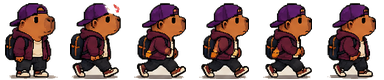
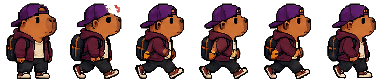
Crônicas de Capivara: Gio, sprites limpos e arte ilustrada para o laboratório

diff --git a/jogos.html b/jogos.html
@@ -4,13 +4,24 @@
 .mission-guide{display:flex;align-items:center;gap:12px;padding:11px 14px;margin-bottom:18px;background:#352638;border:1px solid #8c615e;border-radius:6px}.mission-guide svg{width:42px;height:42px;flex:none}.mission-guide strong,.mission-guide span{display:block}.mission-guide span{font-size:12px;color:#e9c798}.route-ship{position:absolute;width:30px;height:30px;left:8%;top:55%;z-index:3;transform:translate(-50%,-50%);pointer-events:none;transition:left .65s,top .65s}.route-ship svg{width:100%;height:100%}.platform-wrap{border:3px solid #a77e68;border-radius:6px;overflow:hidden;background:#7895a4}.platform-wrap canvas{display:block;width:100%;height:auto;image-rendering:pixelated;touch-action:none}.platform-controls button{touch-action:none;user-select:none}.platform-controls button[data-move=jump]{width:100px}.cover{height:180px}.cover svg{image-rendering:pixelated}.game-card:focus-visible{outline:3px solid #861b23}
 
 .campaign-intro{display:flex;gap:20px;align-items:center;padding:4px 0 22px}.campaign-intro .eyebrow{color:#f2cb94}.campaign-intro h3{font-size:clamp(27px,4vw,43px);color:#fbe2ba}.campaign-intro p{margin:0}.gabe-mini{width:64px;height:64px;flex:none;background:#4e384f;border:2px solid #98726b;display:grid;place-items:center;border-radius:6px}.gabe-mini svg{width:90%;height:90%;image-rendering:pixelated}.world-grid{display:grid;grid-template-columns:repeat(3,minmax(0,1fr));gap:16px}.world-card{background:#3d2d41;color:#fff3de;border:2px solid #9b7268;padding:0;text-align:left;border-radius:7px;overflow:hidden;box-shadow:0 4px 0 #15101c}.world-card:hover{border-color:#f0c38a;transform:translateY(-2px)}.world-card canvas,.world-banner{display:block;width:100%;height:auto;image-rendering:pixelated}.world-card div{padding:12px;display:flex;flex-direction:column;gap:4px}.world-card strong{font:400 24px Anton,Arial,sans-serif;color:#ffe2ab}.world-card small,.world-card span{font-size:12px;color:#d6bec0}.world-card span{font-weight:bold;color:#b9dcb8}.world-banner{margin:16px 0;border:3px solid #a47d6b;border-radius:6px;max-height:180px;object-fit:cover}.world-heading{margin-top:20px!important}.phase-grid{display:grid;grid-template-columns:repeat(2,minmax(0,1fr));gap:10px}.phase-card{display:flex;gap:12px;align-items:center;text-align:left;background:#3b2b40;border:1px solid #967164;color:#f7e6cd;padding:14px;border-radius:5px}.phase-card:hover{background:#52394d;border-color:#f2c598}.phase-index{font:400 24px Anton,Arial,sans-serif;color:#e6bb83}.phase-card strong,.phase-card small{display:block}.phase-card small{font-size:12px;color:#d2babb}.phase-stars{margin-left:auto;white-space:nowrap;color:#f0ca83}.campaign-top{display:flex;gap:16px;align-items:center;justify-content:space-between;flex-wrap:wrap;margin-bottom:18px}.secondary-action{background:#4e374a;border-color:#a17b74;box-shadow:none;margin:4px 6px 4px 0;font-size:14px;padding:9px 13px}.campaign-screen{max-width:min(100%,800px);margin:auto}.campaign-screen canvas{aspect-ratio:16/9;image-rendering:pixelated;max-height:56vh;object-fit:contain}.campaign-controls{margin:10px auto}.field-notes{display:flex;align-items:center;gap:14px;background:#392a3e;padding:12px;border:1px solid #8d6862;border-radius:6px}.field-notes strong{color:#f6d0a0}.field-notes p{margin:3px 0!important;font-size:14px}.field-notes small{font-size:12px;color:#cfbabe}.victory-stars{font-size:35px;color:#f1c675;margin:8px}.campaign-win .gabe-mini{margin:auto}.campaign-win .action{margin:5px}@media(max-width:650px){.world-grid{grid-template-columns:repeat(2,minmax(0,1fr))}.phase-grid{grid-template-columns:1fr}.world-card strong{font-size:19px}.campaign-intro .gabe-mini,.field-notes .gabe-mini{width:45px;height:45px}.campaign-screen canvas{max-height:none}.campaign-top{font-size:13px}}
-.hero-select{padding:clamp(18px,5vw,52px);text-align:center;color:#32202e;background:repeating-linear-gradient(0deg,#e8d7bd 0 2px,#f4e7d4 2px 5px);border:6px double #4e3748;box-shadow:inset 0 0 0 6px #d5bda1}.hero-select p{font:bold 12px monospace;letter-spacing:.2em;color:#68465a}.hero-select h3{color:#41283f;font:bold clamp(22px,4vw,38px) Georgia,serif}.hero-pair,.hero-actions{display:flex;gap:14px;justify-content:center;margin:20px auto;flex-wrap:wrap}.hero-pair button{background:#473447;color:#fff0ce;border:4px solid #81677c;padding:4px;cursor:pointer;width:min(38%,178px);box-shadow:4px 4px #ad927f}.hero-pair img{width:100%;display:block;image-rendering:pixelated}.hero-pair strong{display:block;padding:6px;font:bold 18px monospace}.hero-pair [aria-pressed=true]{border-color:#f5bc58;outline:3px solid #4b3447}.hero-pair [aria-pressed=true] strong:before{content:'▶ '}.hero-pair button:focus-visible{outline:4px dashed #205cad}.hero-actions .action{font:bold 15px monospace}</style><script src="campaign-landscape.js"></script><script>if(window.top===window.self){location.replace('./#jogos')}else{document.documentElement.classList.add('embedded-service')}</script><style>html.embedded-service body{min-height:0!important;height:auto!important;display:flow-root!important;background:transparent!important;background-image:none!important}html.embedded-service body>header,html.embedded-service body>footer{display:none!important}</style></head><body><header class="top"><a class="brand" href="./#inicio"><img src="portal-mark.svg" alt=""><span>PORTAL DA HISTÓRIA<small>PROFESSOR GABRIEL</small></span></a><a class="back" href="./#inicio">Voltar ao Portal</a></header><main class="shell"><div class="head"><div><div class="eyebrow">Acervo interativo</div><h1>Laboratório de Jogos</h1><p>Explore mundos históricos, recupere relíquias e atravesse o tempo. Escolha uma aventura para jogar.</p></div><div class="chapter">Ensino Fundamental e Médio · Aventuras históricas</div></div><div id="gallery" class="gallery" aria-label="Selecione um jogo"></div><section id="arena" class="arena" hidden><div class="gamebar"><button id="leave">Todos os jogos</button><h2 id="gameTitle"></h2><span class="status" id="gameStatus">ROMA IMPERIAL</span></div><div id="stage" class="stage"></div></section></main><footer class="footer">Portal da História · Professor Gabriel Gomes · Jogos educativos</footer><script>
+.hero-select{padding:clamp(18px,5vw,52px);text-align:center;color:#32202e;background:repeating-linear-gradient(0deg,#e8d7bd 0 2px,#f4e7d4 2px 5px);border:6px double #4e3748;box-shadow:inset 0 0 0 6px #d5bda1}.hero-select p{font:bold 12px monospace;letter-spacing:.2em;color:#68465a}.hero-select h3{color:#41283f;font:bold clamp(22px,4vw,38px) Georgia,serif}.hero-pair,.hero-actions{display:flex;gap:14px;justify-content:center;margin:20px auto;flex-wrap:wrap}.hero-pair button{background:#473447;color:#fff0ce;border:4px solid #81677c;padding:4px;cursor:pointer;width:min(38%,178px);box-shadow:4px 4px #ad927f}.hero-pair img{width:100%;display:block;image-rendering:pixelated}.hero-pair strong{display:block;padding:6px;font:bold 18px monospace}.hero-pair [aria-pressed=true]{border-color:#f5bc58;outline:3px solid #4b3447}.hero-pair [aria-pressed=true] strong:before{content:'▶ '}.hero-pair button:focus-visible{outline:4px dashed #205cad}.hero-actions .action{font:bold 15px monospace}.illustrated-cover{display:block;width:100%;height:100%;object-fit:cover}.mission-portrait,.guide-face{width:42px;height:42px;object-fit:cover;image-rendering:pixelated;border:2px solid #c9a476}.maze .guide-face{width:90%;height:90%;border:0}.mission-guide{background:linear-gradient(100deg,#382735,#624955);border:2px solid #b38d70}.memory,.room,.timeline{border:2px solid #8a6858;box-shadow:inset 0 0 0 3px #443341;background-color:#513d47}.game-card .card-copy{border-top:3px solid #ad875f}</style><script src="campaign-landscape.js"></script><script>if(window.top===window.self){location.replace('./#jogos')}else{document.documentElement.classList.add('embedded-service')}</script><style>html.embedded-service body{min-height:0!important;height:auto!important;display:flow-root!important;background:transparent!important;background-image:none!important}html.embedded-service body>header,html.embedded-service body>footer{display:none!important}</style></head><body><header class="top"><a class="brand" href="./#inicio"><img src="portal-mark.svg" alt=""><span>PORTAL DA HISTÓRIA<small>PROFESSOR GABRIEL</small></span></a><a class="back" href="./#inicio">Voltar ao Portal</a></header><main class="shell"><div class="head"><div><div class="eyebrow">Acervo interativo</div><h1>Laboratório de Jogos</h1><p>Explore mundos históricos, recupere relíquias e atravesse o tempo. Escolha uma aventura para jogar.</p></div><div class="chapter">Ensino Fundamental e Médio · Aventuras históricas</div></div><div id="gallery" class="gallery" aria-label="Selecione um jogo"></div><section id="arena" class="arena" hidden><div class="gamebar"><button id="leave">Todos os jogos</button><h2 id="gameTitle"></h2><span class="status" id="gameStatus">ROMA IMPERIAL</span></div><div id="stage" class="stage"></div></section></main><footer class="footer">Portal da História · Professor Gabriel Gomes · Jogos educativos</footer><script>
 const $=id=>document.getElementById(id),stage=$('stage');let current=null,cleanup=()=>{};const shuffle=a=>{a=[...a];for(let i=a.length-1;i>0;i--){let j=Math.floor(Math.random()*(i+1));[a[i],a[j]]=[a[j],a[i]]}return a};const icons={coin:['0011100','0111110','1101011','1101011','1101011','0111110','0011100'],scroll:['0111110','1100011','0111110','0100010','0101110','0100010','0111110'],amphora:['0011100','0111110','1110111','1101011','0111110','0011100','0001000'],helmet:['0011100','0111110','1111111','1100011','1100011','1100001','0110000'],column:['0111110','1111111','0011100','0011100','0011100','0111110','1111111'],wheat:['0001000','0101010','0011100','0101010','0011100','0001000','0001000'],ship:['0001000','0011100','0111110','0001000','1111111','0111110','0011100'],cross:['0001000','0001000','0111110','0001000','0001000','0001000','0001000'],book:['1000001','1110111','1010101','1010101','1010101','1110111','0001000'],key:['0111000','1101100','1101100','0111000','0001111','0001010','0001000'],person:['0011100','0011100','0001000','0111110','0101010','0001000','0010100'],arch:['0111110','1111111','1100011','1100011','1100011','1100011','1100011']};const colors={coin:'#e8b85b',scroll:'#e8c49b',amphora:'#cf795a',helmet:'#c5b3a4',column:'#d6c9b9',wheat:'#e6c572',ship:'#b68c6f',cross:'#e4d3b2',book:'#8bb6a0',key:'#dfb46e',person:'#be4850',arch:'#e0c09c'};
-function art(name,fill){let rows=icons[name]||icons.coin;return `<svg viewBox="0 0 7 7" aria-hidden="true" class="pixel">${rows.map((row,y)=>[...row].map((v,x)=>v==='1'?`<rect x="${x}" y="${y}" width="1" height="1" fill="${fill||colors[name]||'#dbc49e'}"/>`:'').join('')).join('')}</svg>`}
-function cover(kind){if(kind===5)return '<div style="height:100%;display:flex;background:#dfcfb9;align-items:center;justify-content:center">'+['gabi','gil'].map(n=>'<img alt="" style="width:44%;max-height:100%;object-fit:contain;image-rendering:pixelated" src="img/'+n+'-portrait.webp">').join('')+'</div>';const palettes=[['#543c49','#c57a69'],['#3b3547','#b78362'],['#3b4c4a','#b9af74'],['#503b46','#d5a66e'],['#315761','#cbb581']];const [bg,fg]=palettes[kind];let content='';if(kind===0){content=`<path d="M12 84H308" stroke="#c7a46e" stroke-width="4"/>${[40,100,160,220,280].map((x,i)=>`<rect x="${x-16}" y="${i%2?58:36}" width="32" height="32" fill="${i===3?'#b94f50':fg}"/><rect x="${x-3}" y="82" width="6" height="6" fill="#ffe3af"/>`).join('')}`;}else if(kind===1){content=`<rect x="40" y="15" width="240" height="125" fill="#836353"/><rect x="49" y="24" width="222" height="107" fill="#493749"/>${Array.from({length:15},(_,i)=>`<rect x="${58+(i%5)*41}" y="${31+Math.floor(i/5)*33}" width="33" height="25" fill="${i===7?'#e3b971':'#6d4c50'}"/>`).join('')}<path d="M192 102l25 26" stroke="#f0bc72" stroke-width="7"/><circle cx="184" cy="93" r="19" fill="none" stroke="#f0bc72" stroke-width="6"/>`;}else if(kind===2){content=Array.from({length:8},(_,i)=>`<rect x="${62+(i%4)*49}" y="${20+Math.floor(i/4)*62}" width="41" height="52" rx="3" fill="${i===1||i===6?'#e4c28c':'#90606a'}" stroke="#dab787" stroke-width="2"/><rect x="${75+(i%4)*49}" y="${35+Math.floor(i/4)*62}" width="15" height="15" fill="${i===1||i===6?'#8d3e47':'#cf9c80'}"/>`).join('');}else if(kind===3){content=`<path d="M43 112V28H117V58H78V91H156V27H230V75H194V113H277" fill="none" stroke="#a77b61" stroke-width="21"/><path d="M43 112V28H117V58H78V91H156V27H230V75H194V113H277" fill="none" stroke="#e3c69a" stroke-width="9"/><rect x="36" y="104" width="14" height="14" fill="#b7464d"/><rect x="267" y="102" width="21" height="21" fill="#f4ce76"/>`;}else{content=`<path d="M0 0H320V25L286 46 242 36 213 55 186 39 142 57 106 39 78 64 40 49 0 65ZM0 133l68-18 69 12 71-19 49 20 63-18v50H0z" fill="#c5b78b"/>${[[120,49],[169,67],[236,64],[158,121]].map(([x,y])=>`<rect x="${x-5}" y="${y-5}" width="10" height="10" fill="#aa4a4d" stroke="#ffe3aa" stroke-width="2"/>`).join('')}`;}return `<svg viewBox="0 0 320 155" aria-hidden="true"><rect width="320" height="155" fill="${bg}"/><path d="M0 145H320" stroke="${fg}" stroke-width="5"/>${content}</svg>`}
-const games=[['Corrida pelo Tempo','Ordene as relíquias na linha do tempo.','CRONOLOGIA',timelineGame],['Detetive da História','Procure objetos históricos escondidos no arquivo.','OBJETOS OCULTOS',detectiveGame],['Conexões Históricas','Vire cartas e encontre pares de conceitos.','MEMÓRIA',memoryGame],['Expedição Romana','Atravesse o labirinto e recolha os artefatos.','AVENTURA',mazeGame],['Geografia Histórica','Trace rotas pelo Mediterrâneo e descubra cidades.','MAPA',mapGame],['Gabi e Gil no Mapa do Tempo','36 fases em seis mundos históricos: Egito, Mesopotâmia, Grécia, Roma, França e Inglaterra.','CAMPANHA 16-BIT',platformGame]];
+function art(name,fill){
+  if(name==='person')return '<img class="pixel guide-face" alt="" src="img/gabi-portrait.webp">';
+  const rows=icons[name]||icons.coin,base=fill||colors[name]||'#d1a56d';
+  let pixels='';
+  rows.forEach((row,y)=>[...row].forEach((on,x)=>{
+    if(on!=='1')return;
+    pixels+='<rect x="'+(x*2+1)+'" y="'+(y*2+1)+'" width="2" height="2" fill="'+base+'"/>';
+    if(rows[y-1]?.[x]!=='1')pixels+='<rect x="'+(x*2+1)+'" y="'+(y*2+1)+'" width="2" height="1" fill="#fff0c9"/>';
+    if(row[x+1]!=='1')pixels+='<rect x="'+(x*2+2)+'" y="'+(y*2+2)+'" width="1" height="1" fill="#533b47"/>';
+  }));
+  return '<svg viewBox="0 0 16 16" aria-hidden="true" class="pixel">'+pixels+'</svg>';
+}
+function cover(kind){if(kind===5)return '<div style="height:100%;display:flex;background:#dfcfb9;align-items:center;justify-content:center">'+['gabi','gio'].map(n=>'<img alt="" style="width:44%;max-height:100%;object-fit:contain;image-rendering:pixelated" src="img/'+n+'-portrait.webp">').join('')+'</div>';return '<img class="illustrated-cover" src="img/chronicle-game-'+kind+'.webp" alt="">'}
+const games=[['Corrida pelo Tempo','Ordene as relíquias na linha do tempo.','CRONOLOGIA',timelineGame],['Detetive da História','Procure objetos históricos escondidos no arquivo.','OBJETOS OCULTOS',detectiveGame],['Conexões Históricas','Vire cartas e encontre pares de conceitos.','MEMÓRIA',memoryGame],['Expedição Romana','Atravesse o labirinto e recolha os artefatos.','AVENTURA',mazeGame],['Geografia Histórica','Trace rotas pelo Mediterrâneo e descubra cidades.','MAPA',mapGame],['Crônicas de Capivara','36 fases em seis mundos históricos: Egito, Mesopotâmia, Grécia, Roma, França e Inglaterra.','CAMPANHA 16-BIT',platformGame]];
 games.forEach(([name,desc,type],i)=>{const b=document.createElement('button');b.className='game-card';b.innerHTML=`<div class="cover">${cover(i)}<span class="tag">${type}</span></div><div class="card-copy"><h2>${name}</h2><p>${desc}</p><strong>Jogar</strong></div>`;b.onclick=()=>launch(i);$('gallery').append(b)});
-let roundNo=0;const missions=['Arquivo do tempo','Câmara de artefatos','Biblioteca imperial','Via Ápia','Rotas mediterrâneas','Aventura de plataforma'];function launch(i,keep=false){if(!keep)roundNo=0;cleanup();cleanup=()=>{};current=i;$('gallery').hidden=true;$('arena').hidden=false;$('gameTitle').textContent=games[i][0];$('gameStatus').textContent=(i===5?'CAMPANHA HISTÓRICA':'ROMA IMPERIAL')+' · '+missions[i];stage.innerHTML='';games[i][3]();if(i!==5){const banner=document.createElement('div');banner.className='mission-guide';banner.innerHTML=art('person','#f3be8b')+'<div><strong>Gabi, seu guia</strong><span>Missão '+(roundNo+1)+' de 2 · '+missions[i]+'</span></div>';stage.prepend(banner)}$('arena').scrollIntoView({block:'start',behavior:'smooth'})}$('leave').onclick=()=>{cleanup();cleanup=()=>{};current=null;$('arena').hidden=true;$('gallery').hidden=false;stage.innerHTML='';$('gallery').scrollIntoView({block:'start',behavior:'smooth'})};function win(title,desc){cleanup();cleanup=()=>{};if(current!==5&&roundNo===0){stage.innerHTML=`<div class="complete"><h3>${title}</h3><p>${desc}</p><p>Uma nova missão está disponível.</p><button class="action" id="again">Avançar para missão 2</button></div>`;$('again').onclick=()=>{roundNo=1;launch(current,true)}}else{stage.innerHTML=`<div class="complete"><h3>${title}</h3><p>${desc}</p><p>Expedição concluída!</p><button class="action" id="again">Jogar novamente</button></div>`;$('again').onclick=()=>launch(current)}}
+let roundNo=0;const missions=['Arquivo do tempo','Câmara de artefatos','Biblioteca imperial','Via Ápia','Rotas mediterrâneas','Aventura de plataforma'];function launch(i,keep=false){if(!keep)roundNo=0;cleanup();cleanup=()=>{};current=i;$('gallery').hidden=true;$('arena').hidden=false;$('gameTitle').textContent=games[i][0];$('gameStatus').textContent=(i===5?'CAMPANHA HISTÓRICA':'ROMA IMPERIAL')+' · '+missions[i];stage.innerHTML='';games[i][3]();if(i!==5){const banner=document.createElement('div');banner.className='mission-guide';banner.innerHTML='<img class="mission-portrait" alt="" src="img/'+(i%2?'gio':'gabi')+'-portrait.webp">'+'<div><strong>'+(i%2?'Gio, sua guia':'Gabi, seu guia')+'</strong><span>Missão '+(roundNo+1)+' de 2 · '+missions[i]+'</span></div>';stage.prepend(banner)}$('arena').scrollIntoView({block:'start',behavior:'smooth'})}$('leave').onclick=()=>{cleanup();cleanup=()=>{};current=null;$('arena').hidden=true;$('gallery').hidden=false;stage.innerHTML='';$('gallery').scrollIntoView({block:'start',behavior:'smooth'})};function win(title,desc){cleanup();cleanup=()=>{};if(current!==5&&roundNo===0){stage.innerHTML=`<div class="complete"><h3>${title}</h3><p>${desc}</p><p>Uma nova missão está disponível.</p><button class="action" id="again">Avançar para missão 2</button></div>`;$('again').onclick=()=>{roundNo=1;launch(current,true)}}else{stage.innerHTML=`<div class="complete"><h3>${title}</h3><p>${desc}</p><p>Expedição concluída!</p><button class="action" id="again">Jogar novamente</button></div>`;$('again').onclick=()=>launch(current)}}
 function timelineGame(){const events=roundNo?[['64 d.C.','Grande incêndio de Roma'],['80 d.C.','Inauguração do Coliseu'],['212 d.C.','Constituição Antoniniana'],['284 d.C.','Diocleciano assume o poder'],['330 d.C.','Inauguração de Constantinopla'],['410 d.C.','Saque de Roma pelos visigodos']]:[['27 a.C.','Início do Império com Augusto'],['79 d.C.','Erupção do Vesúvio'],['117 d.C.','Extensão máxima sob Trajano'],['313 d.C.','Édito de Milão'],['395 d.C.','Divisão definitiva do Império'],['476 d.C.','Fim do Império do Ocidente']];let placed=0,tries=0,picked=null;stage.innerHTML=`<h3>Reconstrua o tempo</h3><p>Escolha uma relíquia e encaixe-a na próxima posição da linha do tempo, do acontecimento mais antigo ao mais recente. Também é possível arrastar.</p><div class="hud"><span id="tl-progress">0 / 6 acontecimentos</span><span id="tl-tries">0 encaixes errados</span></div><div class="timeline" id="slots"></div><div class="deck" id="deck"></div><p class="notice" id="msg" role="status">Selecione a primeira relíquia.</p>`;events.forEach((_,i)=>{let s=document.createElement('button');s.className='slot';s.innerHTML=`<strong>${i+1}</strong><span>${i===0?'Mais antigo':'Posição '+(i+1)}</span>`;s.setAttribute('aria-label','Posição '+(i+1));s.onclick=()=>put(i);s.ondragover=e=>e.preventDefault();s.ondrop=e=>{e.preventDefault();picked=Number(e.dataTransfer.getData('text/plain'));put(i)};$('slots').append(s)});shuffle(events.map((e,i)=>({e,i}))).forEach(({e,i})=>{let b=document.createElement('button');b.className='timecard';b.dataset.i=i;b.draggable=true;b.innerHTML=`${e[0]}<small>${e[1]}</small>`;b.onclick=()=>select(i);b.ondragstart=e=>{select(i);e.dataTransfer.setData('text/plain',i)};$('deck').append(b)});function select(i){if(i<placed)return;picked=i;document.querySelectorAll('.timecard').forEach(b=>b.classList.toggle('chosen',+b.dataset.i===i));$('msg').textContent='Agora encaixe a relíquia na posição '+(placed+1)+'.'}function put(slot){if(picked===null)return;if(slot!==placed||picked!==placed){tries++;$('tl-tries').textContent=tries+' encaixes errados';$('msg').textContent='Essa relíquia não é a próxima. Compare as datas.';return}let s=$('slots').children[placed];s.classList.add('filled');s.innerHTML=`<strong>${events[placed][0]}</strong><span>${events[placed][1]}</span>`;let b=document.querySelector(`.timecard[data-i="${picked}"]`);b.disabled=true;b.classList.remove('chosen');b.draggable=false;placed++;picked=null;$('tl-progress').textContent=placed+' / 6 acontecimentos';$('msg').textContent=placed===6?'Linha do tempo restaurada!':'Encaixe certo! Selecione a próxima relíquia.';if(placed===6)win('Linha do tempo restaurada!',`Você organizou seis acontecimentos da história romana com ${tries} encaixes errados.`)}}
 function detectiveGame(){const targets=roundNo?[['column','Coluna','A arquitetura monumental expressava o poder romano.'],['ship','Navio','O Mediterrâneo conectava portos e mercados.'],['cross','Cruz','O cristianismo difundiu-se pelo Império.'],['book','Livro','A escrita preservava leis e conhecimento.'],['arch','Arco','Arcos e aquedutos ilustram a engenharia romana.']]:[['coin','Moeda imperial','As moedas facilitavam trocas e divulgavam o poder imperial.'],['scroll','Pergaminho','Os registros escritos ajudavam a administrar o Império.'],['amphora','Ânfora','Ânforas transportavam produtos como vinho e azeite.'],['wheat','Trigo','O trigo era distribuído à plebe na política do pão e circo.'],['helmet','Elmo','O equipamento militar lembra a atuação do exército romano.']];let found=new Set(),mistakes=0;const all=shuffle([...targets.map((t,i)=>({icon:t[0],target:i})),...Array.from({length:19},(_,i)=>({icon:(roundNo?['coin','scroll','amphora','wheat','helmet','key']:['column','ship','cross','book','key','arch'])[i%6],target:-1}))]);stage.innerHTML=`<h3>Arquivo de artefatos</h3><p>Há cinco artefatos desaparecidos entre os objetos do arquivo. Encontre os que aparecem na lista, sem recolher os outros.</p><div class="hud"><span id="det-count">0 / 5 relíquias</span><span id="det-misses">0 enganos</span></div><div class="object-list" id="wanted"></div><div id="room" class="board room" aria-label="Arquivo com objetos escondidos"></div><p class="notice" id="msg" role="status">Observe os símbolos da lista e explore o arquivo.</p>`;targets.forEach((t,i)=>{let s=document.createElement('span');s.id='wanted-'+i;s.innerHTML=art(t[0])+t[1];$('wanted').append(s)});all.forEach(o=>{let b=document.createElement('button');b.className='tile';b.innerHTML=art(o.icon);b.setAttribute('aria-label','Objeto: '+({coin:'moeda',scroll:'pergaminho',amphora:'ânfora',wheat:'trigo',helmet:'elmo',column:'coluna',ship:'navio',cross:'cruz',book:'livro',key:'chave',arch:'arco'}[o.icon]||o.icon));b.onclick=()=>{if(b.disabled)return;if(o.target<0){mistakes++;b.classList.add('miss');b.disabled=true;$('det-misses').textContent=mistakes+' enganos';$('msg').textContent='Este objeto não está na lista da missão.';return}found.add(o.target);b.disabled=true;b.classList.add('found');$('wanted-'+o.target).classList.add('done');$('det-count').textContent=found.size+' / 5 relíquias';$('msg').textContent=targets[o.target][2];if(found.size===5){$('msg').textContent=targets[o.target][2];let done=document.createElement('button');done.className='action';done.textContent='Concluir investigação';done.onclick=()=>win('Arquivo recuperado!',`Você encontrou os cinco artefatos, com ${mistakes} enganos.`);stage.append(done)}};$('room').append(b)})}
 function memoryGame(){const pairs=roundNo?[['Trajano','Expansão territorial máxima'],['Colonato','Trabalho em propriedades rurais'],['Tetrarquia','Governo de quatro'],['Romanização','Difusão de costumes romanos'],['Odoacro','Deposição de Rômulo Augusto'],['Justiniano','Imperador bizantino']]:[['Pax Romana','Estabilidade imperial'],['Pão e circo','Trigo e espetáculos'],['Ruralização','Deslocamento para o campo'],['Édito de Milão','Tolerância religiosa'],['Augusto','Primeiro imperador'],['Constantinopla','Capital do Oriente']];const cards=shuffle(pairs.flatMap((p,i)=>p.map(t=>({t,i}))));let first=null,locked=false,matches=0,turns=0,timer;cleanup=()=>clearTimeout(timer);stage.innerHTML=`<h3>Memória do Império</h3><p>Vire duas cartas por vez. Encontre o conceito que corresponde à sua descrição histórica.</p><div class="hud"><span id="pairs">0 / 6 pares</span><span id="turns">0 jogadas</span></div><div class="board memory" id="memory"></div><p class="notice" id="msg" role="status">Escolha duas cartas.</p>`;cards.forEach((c,i)=>{let b=document.createElement('button');b.innerHTML='<span class="symbol">◆</span>';b.setAttribute('aria-label','Carta '+(i+1)+' fechada');b.onclick=()=>flip(b,c);$('memory').append(b)});function flip(b,c){if(locked||b.classList.contains('matched')||b.classList.contains('flipped'))return;b.classList.add('flipped');b.textContent=c.t;b.setAttribute('aria-label',c.t);if(!first){first={b,c};return}turns++;$('turns').textContent=turns+' jogadas';if(first.c.i===c.i){for(const el of [first.b,b]){el.classList.remove('flipped');el.classList.add('matched');el.disabled=true}matches++;$('pairs').textContent=matches+' / 6 pares';$('msg').textContent='Conexão histórica encontrada!';first=null;if(matches===6)win('Todas as conexões!',`Você completou os seis pares em ${turns} jogadas.`)}else{locked=true;$('msg').textContent='Essas cartas não formam um par.';const a=first.b;timer=setTimeout(()=>{for(const el of [a,b]){el.classList.remove('flipped');el.innerHTML='<span class="symbol">◆</span>';el.setAttribute('aria-label','Carta fechada')}first=null;locked=false},850)}}}
@@ -19,18 +30,20 @@ function mapGame(){const cities=[{name:'Roma',x:45,y:43,hint:'Na Península Itá
 
 
 const GABE_WORLDS=[{"title":"Egito Antigo","era":"c. 3000–30 a.C.","colors":["#efb77b","#bf815a","#74565c","#e0b179"],"icon":"pyramid","stages":[["Margens do Nilo","Nilo","Cestos de grãos","O ciclo das cheias do Nilo favorecia a agricultura."],["A oficina dos escribas","Escribas","Papiros","A escrita hieroglífica registrava informações religiosas e administrativas."],["As pirâmides de Gizé","Gizé","Papiros de arquitetura","As pirâmides eram monumentos funerários reais, construídos por trabalhadores organizados."],["O templo de Karnak","Karnak","Amuletos","Templos eram centros religiosos, econômicos e políticos."],["Vale dos Reis","Necrópole","Fragmentos de pinturas","As tumbas revelam crenças egípcias sobre a vida após a morte."],["Alexandria","Alexandria","Rolos de papiro","Alexandria tornou-se um centro de intercâmbio cultural no período helenístico."]]},{"title":"Mesopotâmia","era":"c. 3500–539 a.C.","colors":["#cfa07c","#8b6d61","#695365","#bc8260"],"icon":"ziggurat","stages":[["Os rios Tigre e Eufrates","Rios","Cestos de sementes","A irrigação permitiu o desenvolvimento agrícola entre os rios Tigre e Eufrates."],["Uruk e a escrita","Uruk","Tabuletas","A escrita cuneiforme foi desenvolvida na Mesopotâmia."],["O zigurate de Ur","Ur","Tabuletas de templo","Zigurates eram construções monumentais ligadas à religião."],["Babilônia de Hamurábi","Babilônia","Tabuletas de leis","O Código de Hamurábi reúne leis que expressavam hierarquias e relações sociais."],["Nínive","Nínive","Registros da biblioteca","A biblioteca de Assurbanípal preservou textos em tabuletas de argila."],["Porta de Ishtar","Babilônia","Fragmentos de cerâmica","A Porta de Ishtar ilustra a monumentalidade da Babilônia neobabilônica."]]},{"title":"Grécia Antiga","era":"c. 800–146 a.C.","colors":["#86b4c7","#82929a","#596e87","#e0c9ad"],"icon":"temple","stages":[["A ágora de Atenas","Atenas","Óstracos","A ágora era espaço de comércio e convivência cívica."],["A Acrópole","Atenas","Fragmentos de mármore","A Acrópole abriga monumentos como o Partenon."],["Esparta","Esparta","Peças de cerâmica","Esparta possuía uma organização social e política própria."],["Olímpia","Olímpia","Coroas de oliveira","Os jogos de Olímpia estavam ligados a celebrações religiosas."],["O porto do Pireu","Pireu","Ânforas","O comércio marítimo conectava comunidades do mundo grego."],["A era helenística","Mundo helenístico","Moedas","A expansão macedônica ampliou os intercâmbios culturais."]]},{"title":"Roma Imperial","era":"27 a.C.–476 d.C. (Ocidente)","colors":["#92a1bd","#a17c77","#65556d","#ceb090"],"icon":"arch","stages":[["Fórum Romano","Roma","Moedas imperiais","O Fórum era um centro político, religioso e comercial."],["Coliseu","Roma","Bilhetes simbólicos","Espetáculos públicos integravam a vida urbana e a política imperial."],["Via Ápia","Via Ápia","Marcos miliários","As estradas facilitavam deslocamentos e a administração das províncias."],["Pompeia","Pompeia","Fragmentos de mosaico","A erupção do Vesúvio em 79 d.C. preservou vestígios da vida romana."],["Porto de Óstia","Óstia","Ânforas","Óstia abastecia Roma por meio do comércio marítimo e fluvial."],["Constantinopla","Constantinopla","Pergaminhos","Constantinopla tornou-se capital imperial em 330 d.C."]]},{"title":"Revolução Francesa","era":"1789–1799","colors":["#9baaba","#8c7c87","#525d77","#c3b6ab"],"icon":"city","stages":[["Paris antes de 1789","Paris","Cadernos de reivindicações","O Antigo Regime era marcado por privilégios de nascimento e desigualdades."],["Versalhes","Versalhes","Documentos dos Estados Gerais","Os Estados Gerais foram convocados em 1789."],["A praça da Bastilha","Paris","Panfletos","A tomada da Bastilha em 14 de julho de 1789 tornou-se símbolo da Revolução."],["Assembleia Nacional","Paris","Páginas da declaração","A Declaração dos Direitos do Homem e do Cidadão proclamou direitos em 1789."],["A Convenção","Paris","Jornais","A República foi proclamada em 1792, em meio a conflitos políticos."],["O Diretório","Paris","Documentos políticos","O Diretório governou de 1795 a 1799, antes do golpe de 18 de Brumário."]]},{"title":"Revolução Industrial","era":"c. 1760–1850","colors":["#879ba7","#6e727a","#3f495d","#a17d70"],"icon":"factory","stages":[["As oficinas têxteis","Inglaterra","Amostras de tecido","A mecanização transformou a produção têxtil britânica."],["Manchester","Manchester","Registros de trabalho","A industrialização acelerou o crescimento urbano e transformou o trabalho."],["Máquinas a vapor","Inglaterra","Peças de máquinas","A energia a vapor impulsionou fábricas e transportes."],["O canal comercial","Inglaterra","Caixas de mercadorias","Canais permitiam transportar matérias-primas e produtos."],["A ferrovia","Liverpool–Manchester","Bilhetes de viagem","A ferrovia Liverpool–Manchester foi inaugurada em 1830."],["Cidade industrial","Inglaterra","Documentos de trabalhadores","Mudanças nas condições de trabalho estimularam formas de organização coletiva."]]}];
+const chronicleScenes=Array.from({length:6},(_,i)=>{const img=new Image();img.src='img/chronicle-world-'+i+'.webp';return img});
+const critters=new Image();critters.src='img/chronicle-fauna.webp';
 function platformGame(){
   let worldIndex=0,phase=0,stopScene=()=>{},progress={};try{progress=JSON.parse(localStorage.getItem('gabe-campaign-v1')||'{}')||{}}catch{}
   let disposed=false;cleanup=()=>{disposed=true;stopScene()};const save=(w,p,record)=>{try{const key=w+'-'+p;progress[key]=Math.max(progress[key]||0,record);localStorage.setItem('gabe-campaign-v1',JSON.stringify(progress))}catch{}};
   let hero='Gabi';
-  try{if(localStorage.getItem('capivara-personagem')==='Gil')hero='Gil'}catch{}
+  try{if(['Gio','Gil'].includes(localStorage.getItem('capivara-personagem')))hero='Gio'}catch{}
   const atlas={};
-  for(const name of ['Gabi','Gil']){atlas[name]=new Image();atlas[name].src='img/'+name.toLowerCase()+'-walk.webp'}
+  for(const name of ['Gabi','Gio']){atlas[name]=new Image();atlas[name].src='img/'+name.toLowerCase()+'-walk.webp'}
   function startMenu(){
     stopScene();stopScene=()=>{};
     stage.innerHTML='<section class="hero-select"><p>CRÔNICAS DE CAPIVARA</p><h3>Escolha seu personagem</h3><div class="hero-pair"></div><div class="hero-actions"><button class="action" id="hero-start">▶ START</button><button class="action secondary-action" id="hero-map">Seleção de fase</button></div></section>';
     const buttons=[];
-    for(const name of ['Gabi','Gil']){
+    for(const name of ['Gabi','Gio']){
       const b=document.createElement('button');buttons.push(b);b.dataset.name=name;
       b.innerHTML='<img src="img/'+name.toLowerCase()+'-portrait.webp" alt=""><strong>'+name+'</strong>';
       b.setAttribute('aria-pressed',String(name===hero));
@@ -40,7 +53,7 @@ function platformGame(){
     $('hero-start').onclick=()=>{worldIndex=0;phase=0;runPhase()};
     $('hero-map').onclick=worldMap;
   }
-  function worldMap(){stopScene();stopScene=()=>{};if(disposed)return;const total=Object.values(progress).filter(n=>n>0).length;stage.innerHTML='<div class="campaign-intro"><div class="gabe-mini">'+gabeIcon()+'</div><div><span class="eyebrow">CRÔNICAS DE CAPIVARA</span><h3>Gabi e Gil no Mapa do Tempo</h3><p>Viaje por seis mundos históricos. Cada mundo tem seis fases, relíquias e cenários próprios.</p></div></div><div class="hud"><span>36 FASES • 6 MUNDOS</span><span>'+total+' / 36 concluídas</span></div><div class="world-grid" id="world-grid"></div><p class="notice">Escolha qualquer mundo para começar. Seu progresso fica salvo neste dispositivo.</p><button class="action secondary-action" id="hero-change">Trocar personagem</button>';$('hero-change').onclick=startMenu;GABE_WORLDS.forEach((w,i)=>{const n=w.stages.filter((_,j)=>progress[i+'-'+j]).length,b=document.createElement('button');b.className='world-card';b.innerHTML='<canvas width="192" height="96" aria-hidden="true"></canvas><div><strong>'+w.title+'</strong><small>'+w.era+'</small><span>'+n+' / 6 fases concluídas</span></div>';b.onclick=()=>{worldIndex=i;phaseMap()};$('world-grid').append(b);const c=b.querySelector('canvas');drawBackdrop(c.getContext('2d'),192,96,i,0,0,0)});}
+  function worldMap(){stopScene();stopScene=()=>{};if(disposed)return;const total=Object.values(progress).filter(n=>n>0).length;stage.innerHTML='<div class="campaign-intro"><div class="gabe-mini">'+gabeIcon()+'</div><div><span class="eyebrow">CRÔNICAS DE CAPIVARA</span><h3>Crônicas de Capivara</h3><p>Viaje por seis mundos históricos. Cada mundo tem seis fases, relíquias e cenários próprios.</p></div></div><div class="hud"><span>36 FASES • 6 MUNDOS</span><span>'+total+' / 36 concluídas</span></div><div class="world-grid" id="world-grid"></div><p class="notice">Escolha qualquer mundo para começar. Seu progresso fica salvo neste dispositivo.</p><button class="action secondary-action" id="hero-change">Trocar personagem</button>';$('hero-change').onclick=startMenu;GABE_WORLDS.forEach((w,i)=>{const n=w.stages.filter((_,j)=>progress[i+'-'+j]).length,b=document.createElement('button');b.className='world-card';b.innerHTML='<canvas width="192" height="96" aria-hidden="true"></canvas><div><strong>'+w.title+'</strong><small>'+w.era+'</small><span>'+n+' / 6 fases concluídas</span></div>';b.onclick=()=>{worldIndex=i;phaseMap()};$('world-grid').append(b);const c=b.querySelector('canvas');drawBackdrop(c.getContext('2d'),192,96,i,0,0,0)});}
   function phaseMap(){stopScene();stopScene=()=>{};if(disposed)return;const w=GABE_WORLDS[worldIndex];stage.innerHTML='<button class="action secondary-action" id="world-back">Todos os mundos</button><h3 class="world-heading">'+w.title+'</h3><p>'+w.era+' · Selecione um local no mapa da campanha.</p><canvas width="640" height="180" class="world-banner" id="world-banner" aria-hidden="true"></canvas><div class="phase-grid" id="phase-grid"></div>';$('world-back').onclick=worldMap;drawBackdrop($('world-banner').getContext('2d'),640,180,worldIndex,0,0,0);w.stages.forEach((s,j)=>{const b=document.createElement('button');b.className='phase-card';b.innerHTML='<span class="phase-index">'+String(j+1).padStart(2,'0')+'</span><div><strong>'+s[0]+'</strong><small>'+s[1]+'</small></div><span class="phase-stars">'+(progress[worldIndex+'-'+j]?'★'.repeat(progress[worldIndex+'-'+j]):'☆☆☆')+'</span>';b.onclick=()=>{phase=j;runPhase()};$('phase-grid').append(b)})}
   function gabeIcon(){return '<img width="100%" height="100%" alt="'+hero+'" src="img/'+hero.toLowerCase()+'-portrait.webp">'}
   function runPhase(){
@@ -143,8 +156,22 @@ function platformGame(){
           for(let j=0;j<b.w;j+=10){const dy=b.wear>20?(time+j)%3:0;box(b.x+j,b.y+dy,9,9,'#845344');box(b.x+j,b.y+dy,9,3,'#edbb76');box(b.x+j+3,b.y+dy+4,4,1,'#bd8054')}
           box(b.x,b.y+9,b.w,2,'#513c45');continue;
         }
-        box(b.x,b.y,b.w,b.h,w.colors[3]);box(b.x,b.y,b.w,4,'#f1d1a6');for(let x=b.x+7;x<b.x+b.w;x+=18){box(x,b.y+8,2,3,'#947369');if(b.h>18)box(x+6,b.y+20,8,2,'#947369')}}for(const o of obstacles){
+        box(b.x,b.y,b.w,b.h,'#5e4143');box(b.x+1,b.y+1,b.w-2,4,'#e4bd87');
+        const brick=['#ad805e','#ad7864','#a3947d','#ac806d','#9d8082','#976e64'][worldIndex];
+        for(let row=0;row<Math.ceil((b.h-5)/9);row++){
+          const left=b.x-(row%2)*12;
+          for(let x=Math.max(left,left+Math.floor((cam-left)/24)*24);x<Math.min(b.x+b.w,cam+W);x+=24){
+            const start=Math.max(b.x,x+1),width=Math.min(b.x+b.w,x+24)-start,y=b.y+5+row*9;
+            if(width>0){box(start,y,width,Math.min(8,b.y+b.h-y),brick);box(start,y,Math.min(7,width),1,'#d4a987')}
+          }
+        }}for(const o of obstacles){
         if(o.warning){box(o.x+8,o.y-12,3,6,'#ffde79');box(o.x+8,o.y-4,3,2,'#fff1ae')}
+        if(critters.naturalWidth){
+          const direction=Math.cos(time/(46-phase*2)+o.origin)>=0?1:-1;
+          const bounce=Math.round(Math.abs(Math.sin(time/6))*2);
+          ctx.save();ctx.translate(Math.round(o.x+o.w/2),o.y+o.h);ctx.scale(direction,1);
+          ctx.drawImage(critters,worldIndex*80,0,80,64,-15,-24-bounce,30,24);ctx.restore();continue;
+        }
         const step=Math.floor(time/7)%2;
         box(o.x,o.y+3,20,10,'#523356');box(o.x+2,o.y,15,10,'#bb5162');box(o.x+4,o.y+2,10,3,'#ef9679');
         box(o.x+13,o.y+4,4,4,'#fff3bc');box(o.x+15,o.y+5,2,2,'#362848');
@@ -166,7 +193,21 @@ function platformGame(){
     function loop(t){if(stopped||disposed)return;if(!last)last=t;acc+=Math.min(50,t-last);last=t;while(acc>=16.67&&!stopped){tick();acc-=16.67}if(stopped)return;frame();raf=requestAnimationFrame(loop)}
     const km={ArrowLeft:'left',a:'left',A:'left',ArrowRight:'right',d:'right',D:'right',ArrowUp:'jump',w:'jump',W:'jump',' ':'jump'};const down=e=>{if(km[e.key]){e.preventDefault();keys[km[e.key]]=true}},up=e=>{if(km[e.key])keys[km[e.key]]=false},blur=()=>{keys={}};document.addEventListener('keydown',down);document.addEventListener('keyup',up);window.addEventListener('blur',blur);stage.querySelectorAll('[data-move]').forEach(b=>{const k=b.dataset.move;b.onpointerdown=e=>{e.preventDefault();b.setPointerCapture(e.pointerId);keys[k]=true};b.onpointerup=b.onpointercancel=b.onlostpointercapture=()=>keys[k]=false});stopScene=()=>{stopped=true;cancelAnimationFrame(raf);document.removeEventListener('keydown',down);document.removeEventListener('keyup',up);window.removeEventListener('blur',blur)};$('phase-back').onclick=phaseMap;$('gabe-restart').onclick=runPhase;hud();frame();canvas.focus({preventScroll:true});raf=requestAnimationFrame(loop)
   }
-  function drawBackdrop(c,W,H,wi,pi,cam,t){const w=GABE_WORLDS[wi],unit=H/270;const xscale=unit;const rect=(x,y,a,b,col)=>{c.fillStyle=col;c.fillRect(Math.floor(x),Math.floor(y),Math.ceil(a),Math.ceil(b))};rect(0,0,W,H,w.colors[0]);const y=v=>v*unit;const px=v=>v*xscale;const block=(x,yy,a,b,col)=>rect(x,y(yy),px(a),y(b),col);const skies=[['#57bcd3','#ffd59a'],['#73c4cc','#edc793'],['#6bade0','#f7dcc1'],['#829ad7','#ffc89e'],['#928ed2','#f5b49d'],['#748fae','#e0bbac']][wi];
+  function drawBackdrop(c,W,H,wi,pi,cam,t){const scene=chronicleScenes[wi];
+    if(!scene.complete&&c.canvas.id!=='gabe-canvas'){
+      scene.addEventListener('load',()=>{if(c.canvas.isConnected)drawBackdrop(c,W,H,wi,pi,cam,t)},{once:true});
+    }
+    if(scene.naturalWidth){
+      const scale=H/scene.naturalHeight*1.14,span=Math.ceil(scene.naturalWidth*scale),offset=cam*.23*H/270+pi*57;
+      const start=Math.floor(offset/span),shift=Math.floor(offset%span);
+      for(let j=0;j<Math.ceil(W/span)+1;j++){
+        const x=j*span-shift,mirror=(start+j)%2;
+        c.save();c.translate(x+(mirror?span:0),-Math.floor(H*.025*(pi%4)));c.scale(mirror?-1:1,1);
+        c.drawImage(scene,0,0,span,Math.ceil(H*1.14));c.restore();
+      }
+      return;
+    }
+    const w=GABE_WORLDS[wi],unit=H/270;const xscale=unit;const rect=(x,y,a,b,col)=>{c.fillStyle=col;c.fillRect(Math.floor(x),Math.floor(y),Math.ceil(a),Math.ceil(b))};rect(0,0,W,H,w.colors[0]);const y=v=>v*unit;const px=v=>v*xscale;const block=(x,yy,a,b,col)=>rect(x,y(yy),px(a),y(b),col);const skies=[['#57bcd3','#ffd59a'],['#73c4cc','#edc793'],['#6bade0','#f7dcc1'],['#829ad7','#ffc89e'],['#928ed2','#f5b49d'],['#748fae','#e0bbac']][wi];
     campaignLandscape(c,W,H,wi,pi,cam,false);
 
     const base=210;

diff --git a/sw.js b/sw.js
@@ -1,5 +1,5 @@
 /* Portal da História — offline application shell. */
-const VERSION = 'portal-historia-pwa-v62';
+const VERSION = 'portal-historia-pwa-v63';
 const CORE = VERSION + '-core';
 const MEDIA = 'portal-historia-pwa-v1-media';
 const BASE = new URL('./', self.location.href);
@@ -9,7 +9,9 @@ const chapters = [
   ...Array.from({length:12},(_,i)=>'9-'+(i+1))
 ];
 const files = [
-  'img/gabi-portrait.webp','img/gil-portrait.webp','img/gabi-walk.webp','img/gil-walk.webp',
+  'img/gabi-portrait.webp','img/gio-portrait.webp','img/gabi-walk.webp','img/gio-walk.webp','img/chronicle-fauna.webp',
+  ...Array.from({length:6},(_,i)=>'img/chronicle-world-'+i+'.webp'),
+  ...Array.from({length:5},(_,i)=>'img/chronicle-game-'+i+'.webp'),
   'campaign-landscape.js',
   './','index.html','jogos.html','og-image.png','manifest.webmanifest','app-icon-192.png','app-icon-512.png','aplicativo.html','aplicativo.js',
   'pwa.js','pwa.css','style.css','portal.css','refinement.css','fullwidth.css',
